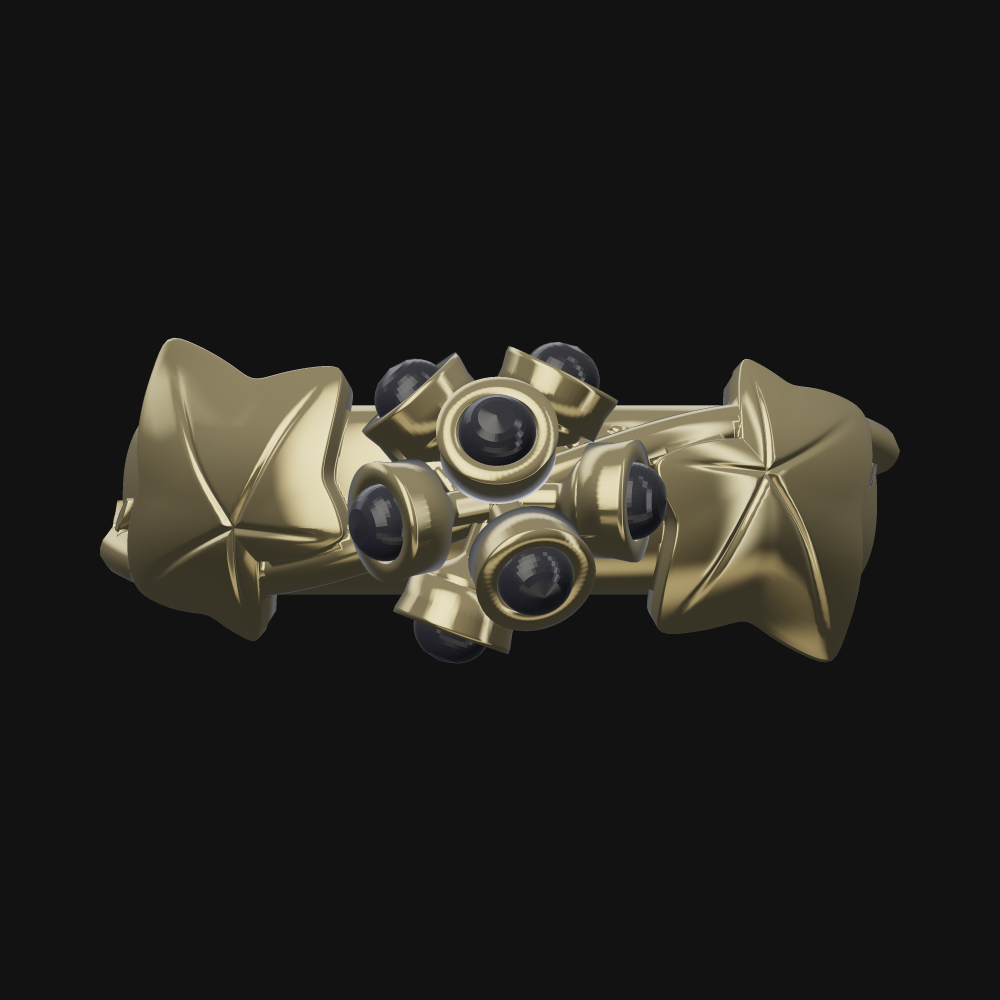
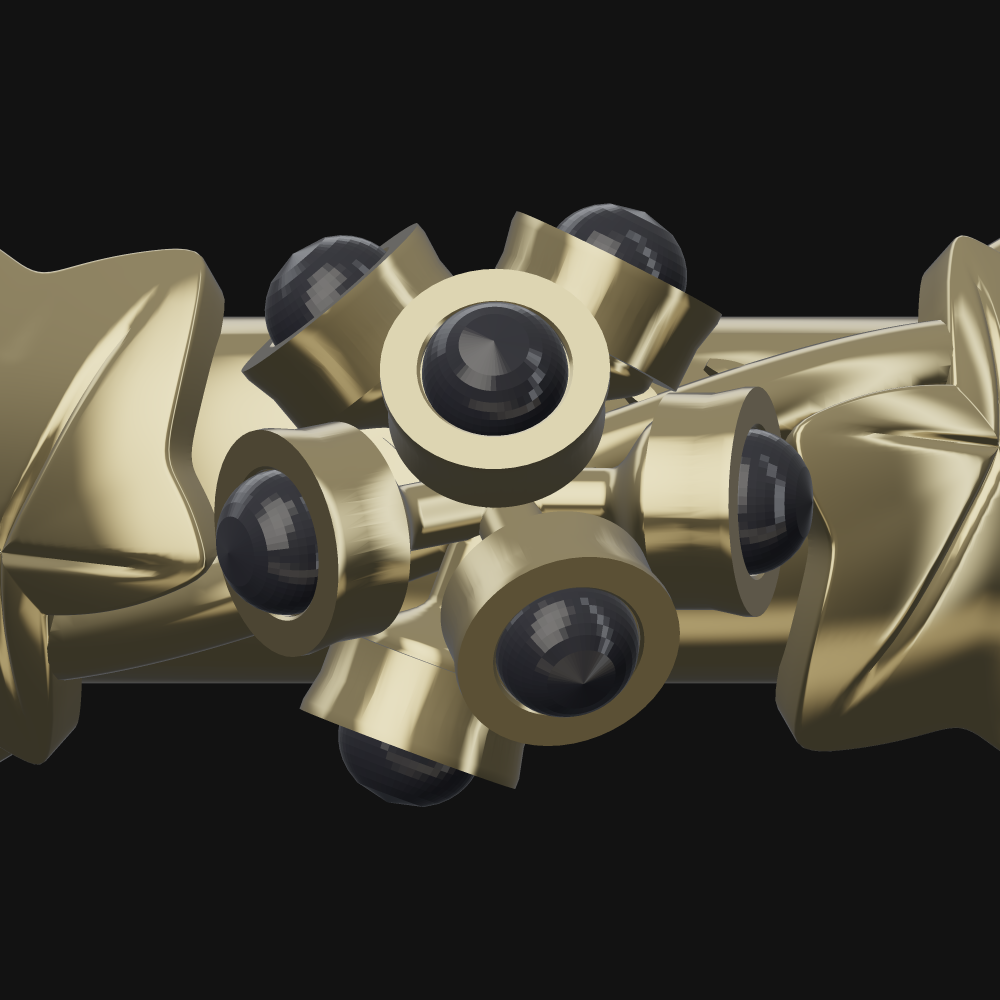
Hedera: block-out attempt 2 on master 2e11632, read test 2 (does not read)
Claude-Session: https://claude.ai/code/session_015rH2PG4x9Kj5DesPicGKoE

diff --git a/crates/ringdesign-core/examples/vepres_hedera.rs b/crates/ringdesign-core/examples/vepres_hedera.rs
@@ -980,29 +980,6 @@ fn walls(built: &mesh::BuildResult) -> Vec<serde_json::Value> {
 /// The camera for each named view: yaw about the finger's axis, pitch toward it.
 const VIEWS: [(&str, f64, f64); 6] = [("hero", 0.5, 1.0), ("face", 0.0, PI * 0.5), ("palm", PI, 1.05), ("side", 0.0, 0.0), ("shoulder", 0.75, 0.6), ("reverse", PI - 0.5, 0.35)];
 
-/// The faces of `m` whose every corner lies within `half_deg` of `theta` round the ring and past `over` mm out.
-fn wedge(m: &mesh::Mesh, theta: f64, half_deg: f64, over: f64) -> mesh::Mesh {
-    let near = |i: u32| {
-        let p = m.vertices[i as usize];
-        let t = (p.1 as f64).atan2(p.0 as f64).to_degrees();
-        let d = (t - theta + 540.0).rem_euclid(360.0) - 180.0;
-        d.abs() <= half_deg && (p.0 as f64).hypot(p.1 as f64) >= over
-    };
-    let mut index = std::collections::HashMap::new();
-    let mut out = mesh::Mesh::default();
-    for f in m.faces.iter().filter(|f| f.iter().all(|&i| near(i))) {
-        let g = f.map(|i| {
-            *index.entry(i).or_insert_with(|| {
-                out.vertices.push(m.vertices[i as usize]);
-                out.normals.push(m.normals[i as usize]);
-                (out.vertices.len() - 1) as u32
-            })
-        });
-        out.faces.push(g);
-    }
-    out
-}
-
 fn save_rgb(path: &Path, img: &[u8], w: usize, h: usize) -> Result<()> {
     image::save_buffer(path, img, w as u32, h as u32, image::ColorType::Rgb8)?;
     Ok(())
@@ -1023,20 +1000,19 @@ fn renders(out: &Path, d: &RingDesign, lib: &AlphaLibrary, fin: &render::Finishe
         }
     }
     save_rgb(&out.join("contact-300.png"), &sheet, cols * 300, rows * 300)?;
-    // The crown seen square from above, cropped to the umbel and the two crown leaves.
-    let crown = wedge(&fin.metal, CROWN_DEG, 70.0, 10.0);
-    let mut close = vec![render::Part::metal(&crown, render::GOLD)];
-    close.extend(fin.stones.iter().map(|(m, t)| render::Part::tinted_stone(m, *t)));
-    render::write_png_parts(out.join("crown-close.png"), &close, 0.0, PI * 0.5, edge)?;
-    render::write_png_parts(out.join("crown-hero.png"), &close, -0.5, 0.9, edge)?;
+    // The crown framed from above and from the hero's side: the umbel and the two crown leaves, whole metal, never a
+    // cropped mesh.
+    let crown = umbel_hub(&Chart::of(d));
+    render::write_png_framed(out.join("crown-close.png"), &parts, render::yaw_facing(CROWN_DEG), PI * 0.5, render::Framing::new(crown, 7.5), edge)?;
+    render::write_png_framed(out.join("crown-hero.png"), &parts, VIEWS[0].1, 0.9, render::Framing::new(crown, 8.0), edge)?;
     if quick {
         return Ok(());
     }
     for (name, yaw, pitch) in VIEWS {
         render::write_png_parts(out.join(format!("{name}.png")), &parts, yaw, pitch, edge)?;
     }
-    // The umbel close-up: the crown seen from above and a little ahead.
-    render::write_png_parts(out.join("stones.png"), &parts, -0.3, 1.2, edge)?;
+    // The umbel close-up: the berries on their stalks, from above and a little ahead.
+    render::write_png_framed(out.join("stones.png"), &parts, -0.3, 1.2, render::Framing::new(umbel_hub(&Chart::of(d)), 5.0), edge)?;
     let bare = mesh::try_build(&host(), lib, draft_params())?;
     let (yaw, pitch) = (VIEWS[0].1, VIEWS[0].2);
     let left = render::render_parts_ss(&[render::Part::metal(&bare.mesh, render::GOLD)], yaw, pitch, edge, edge, 3);
